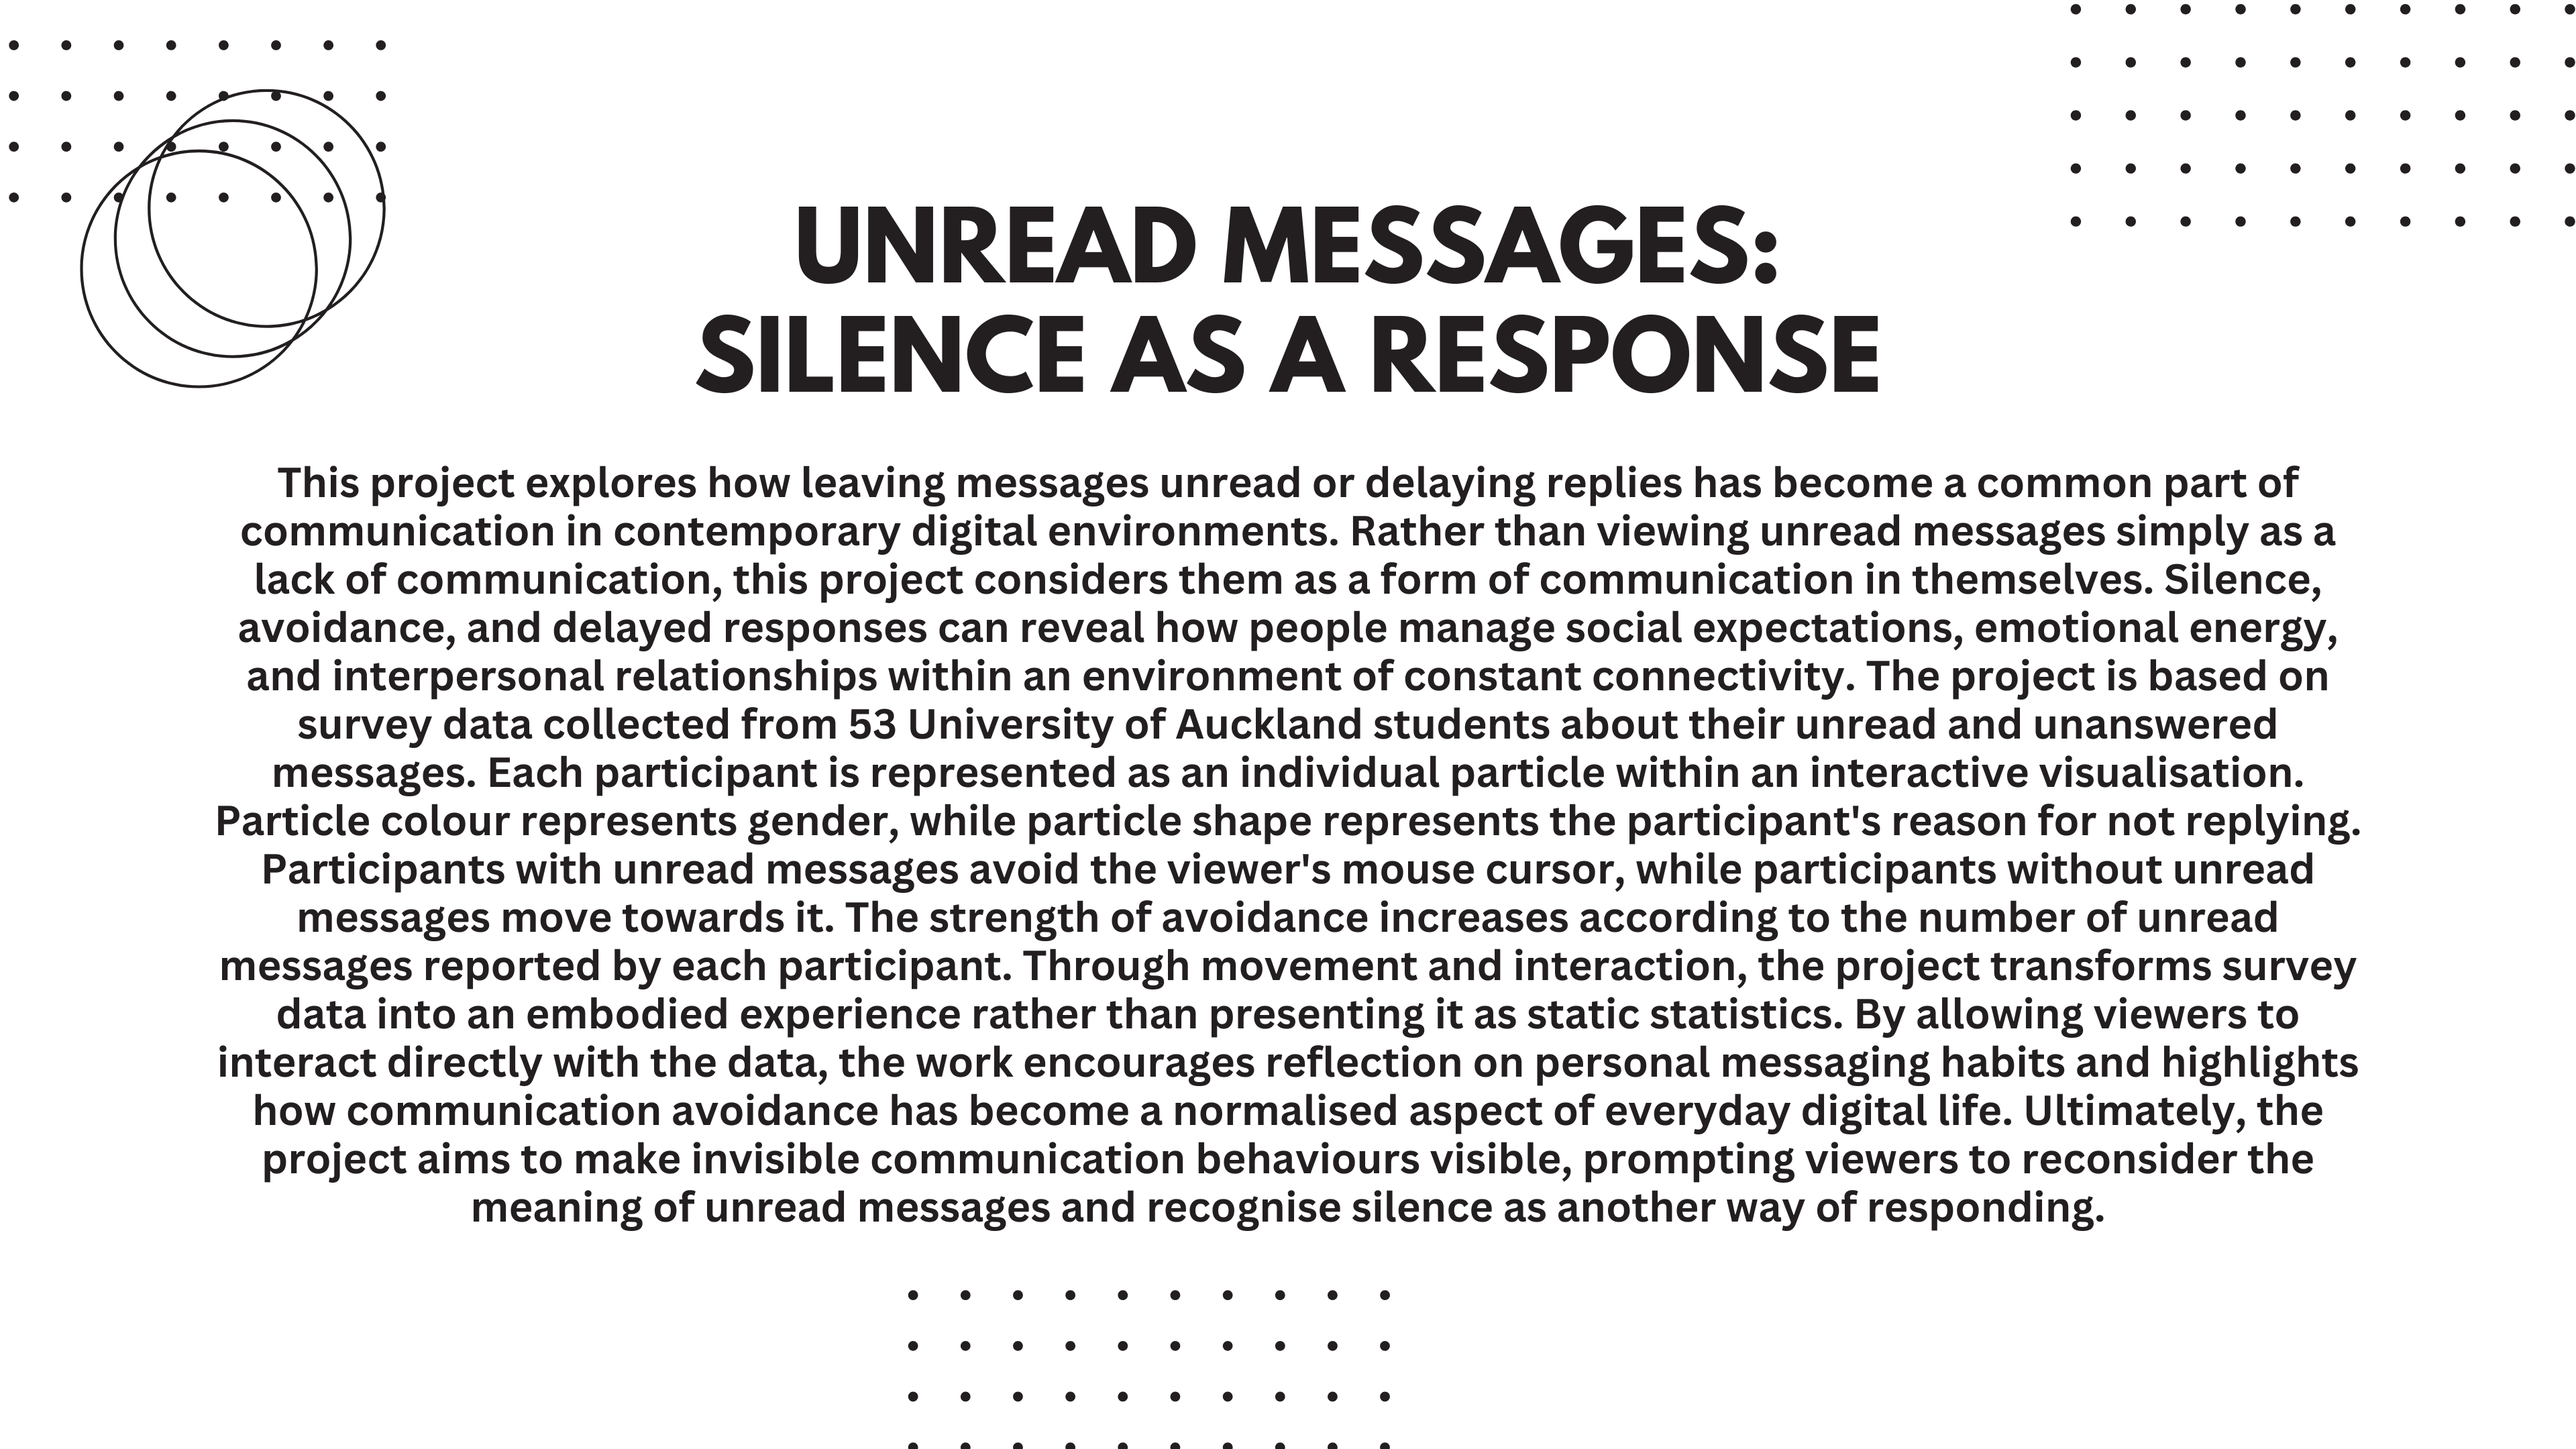
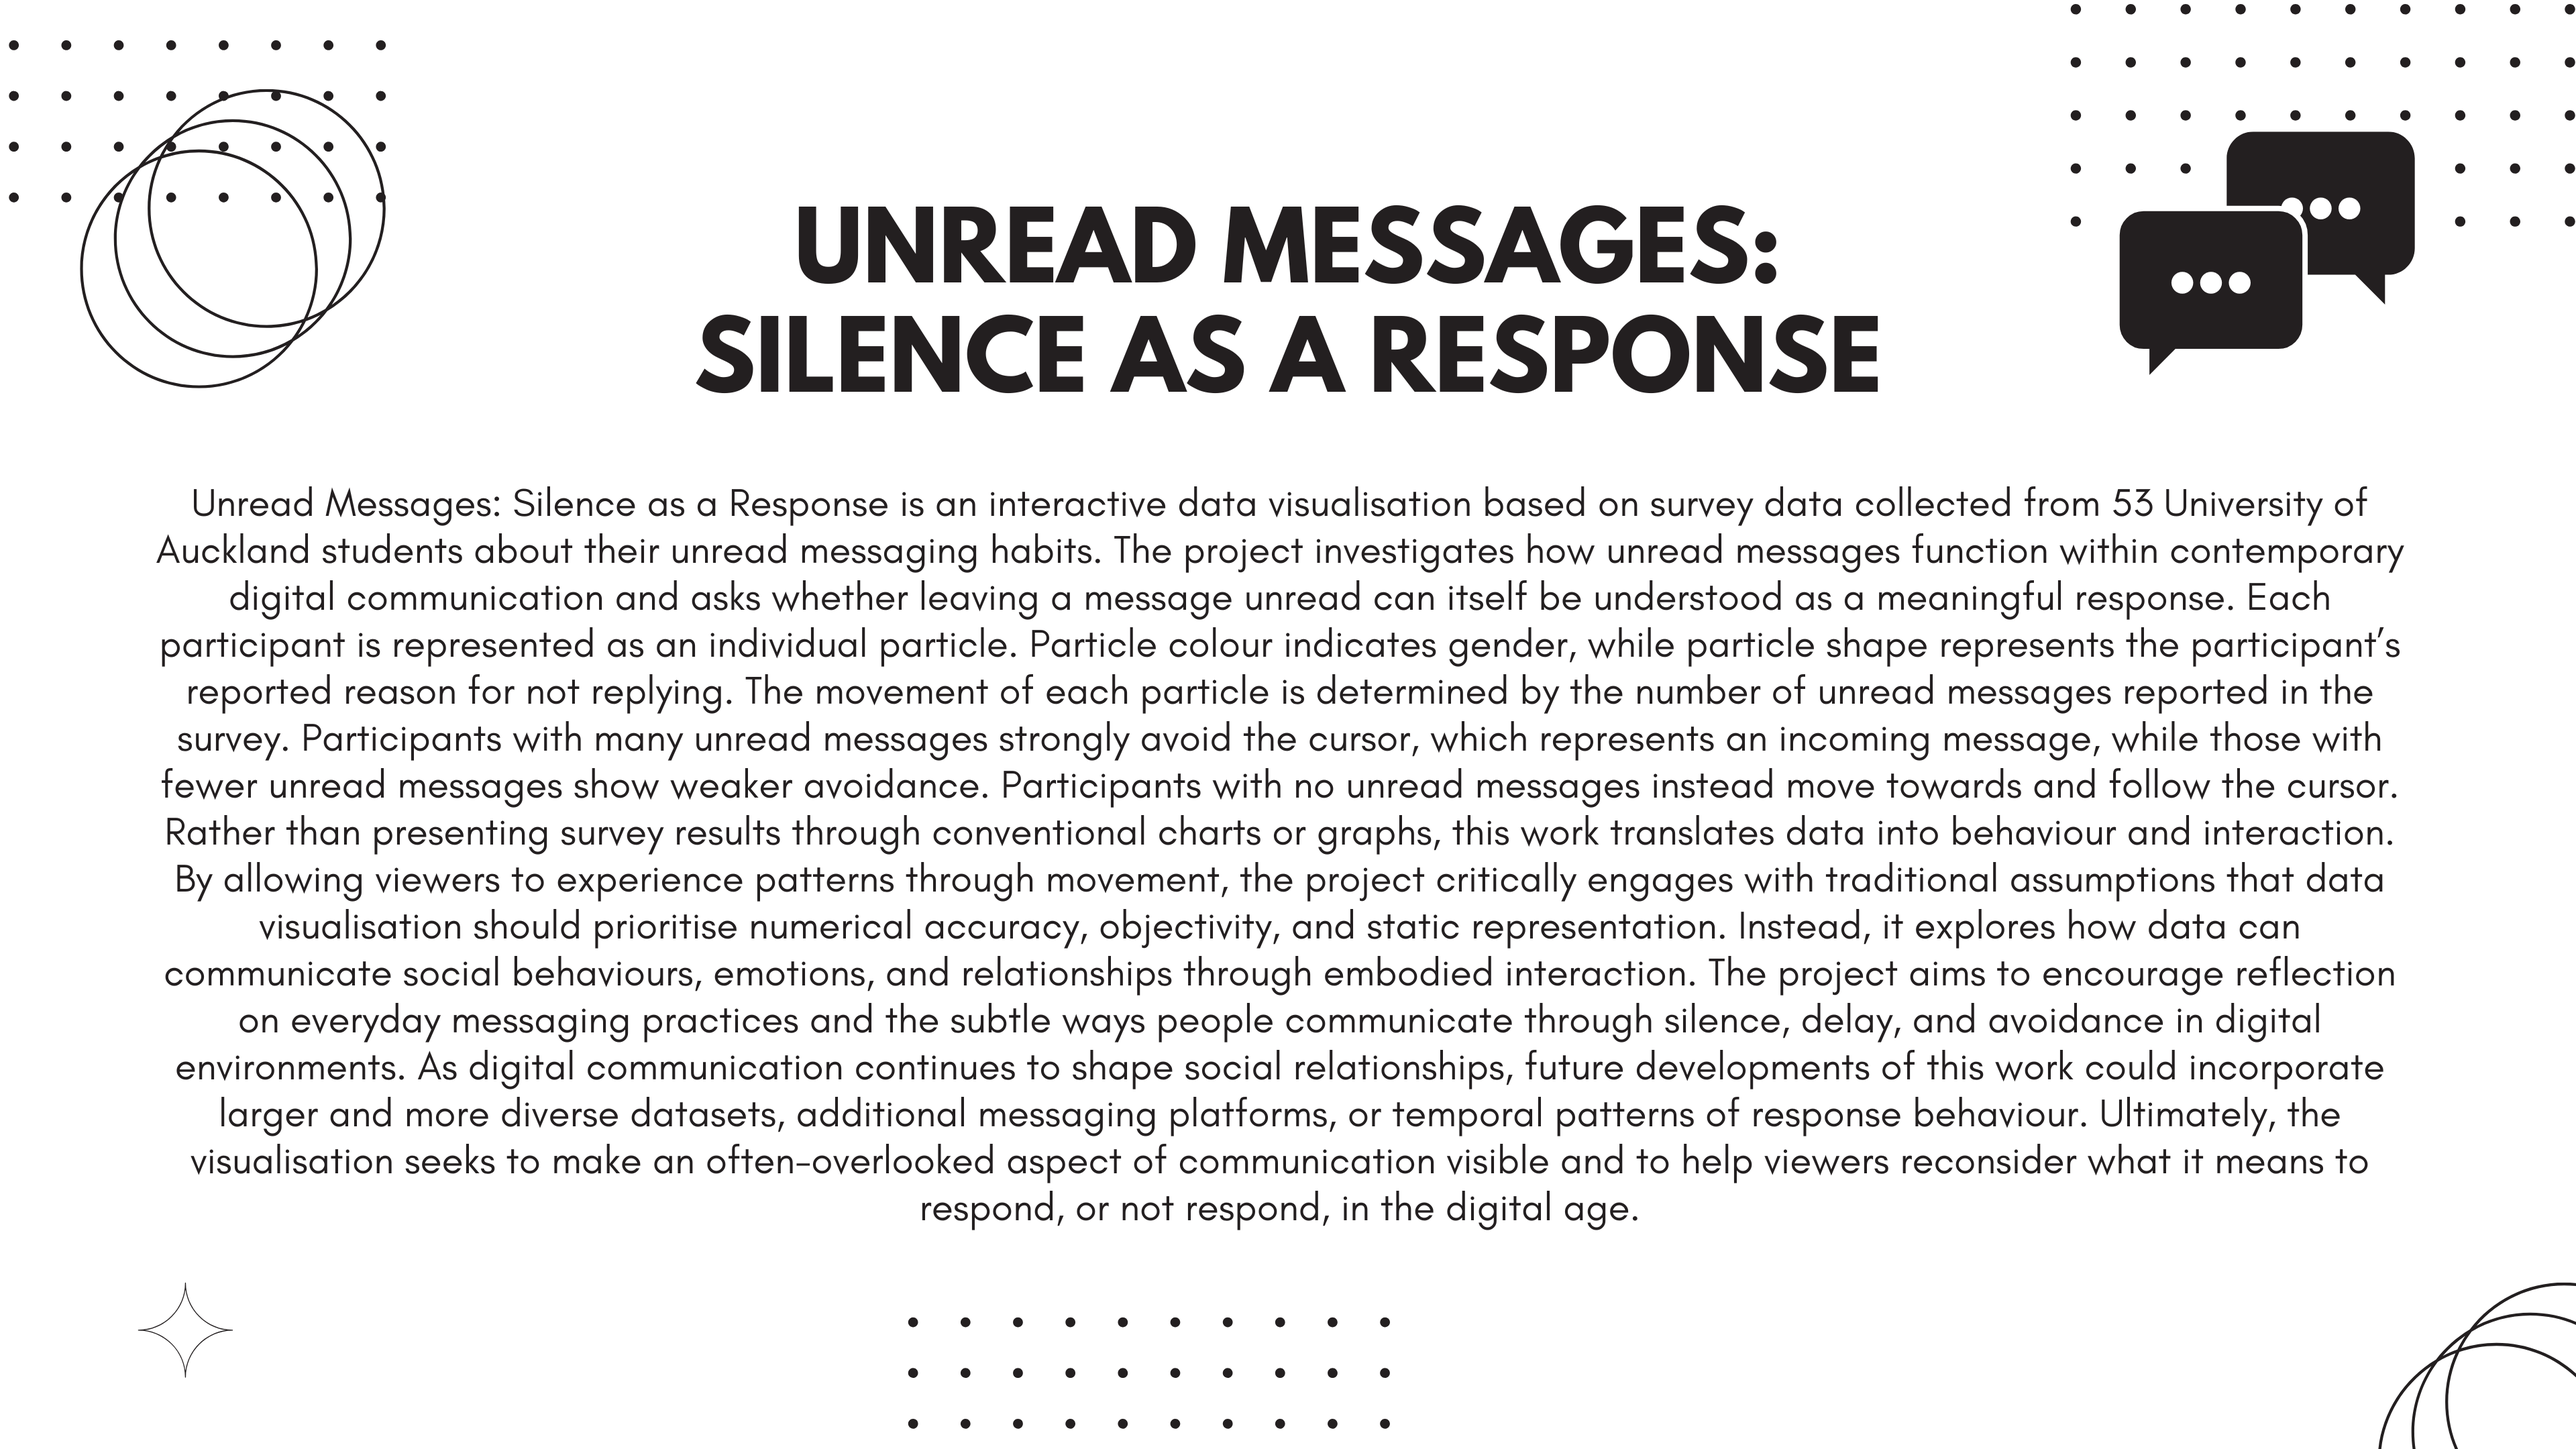
update

diff --git a/journal-pages/week-09.md b/journal-pages/week-09.md
@@ -220,9 +220,10 @@ I have collected data from 34 participants so far.
 
 ### AI Usage Statement
 
-- Google. (2026). Gemini [Large language model]. https://gemini.google.com
+References
 
+- Google. (2026). Gemini [Large language model]. https://gemini.google.com
+- Google. (2026). NotebookLM [AI research and note-taking assistant]. https://notebooklm.google.com
 - OpenAI. (2026). Codex [AI coding model]. https://openai.com
 
-
-Google Gemini and OpenAI Codex were used as coding support tools during the development of the p5.js prototype. These tools were used to generate prompts, produce example code, troubleshoot programming errors, and explore different programming approaches. All final design decisions, data mappings, code selection, refinements, and project outcomes were developed and evaluated by Hyein Yun.
+AI Use Statement: Google Gemini, Google NotebookLM, and OpenAI Codex were used as support tools during the development of the p5.js prototype. These tools were used to generate prompts, provide example code, troubleshoot programming errors, summarise research materials, and explore different programming approaches. All final design decisions, data mappings, code selection, refinements, interpretations, and project outcomes were developed, reviewed, and evaluated by Hyein Yun.
